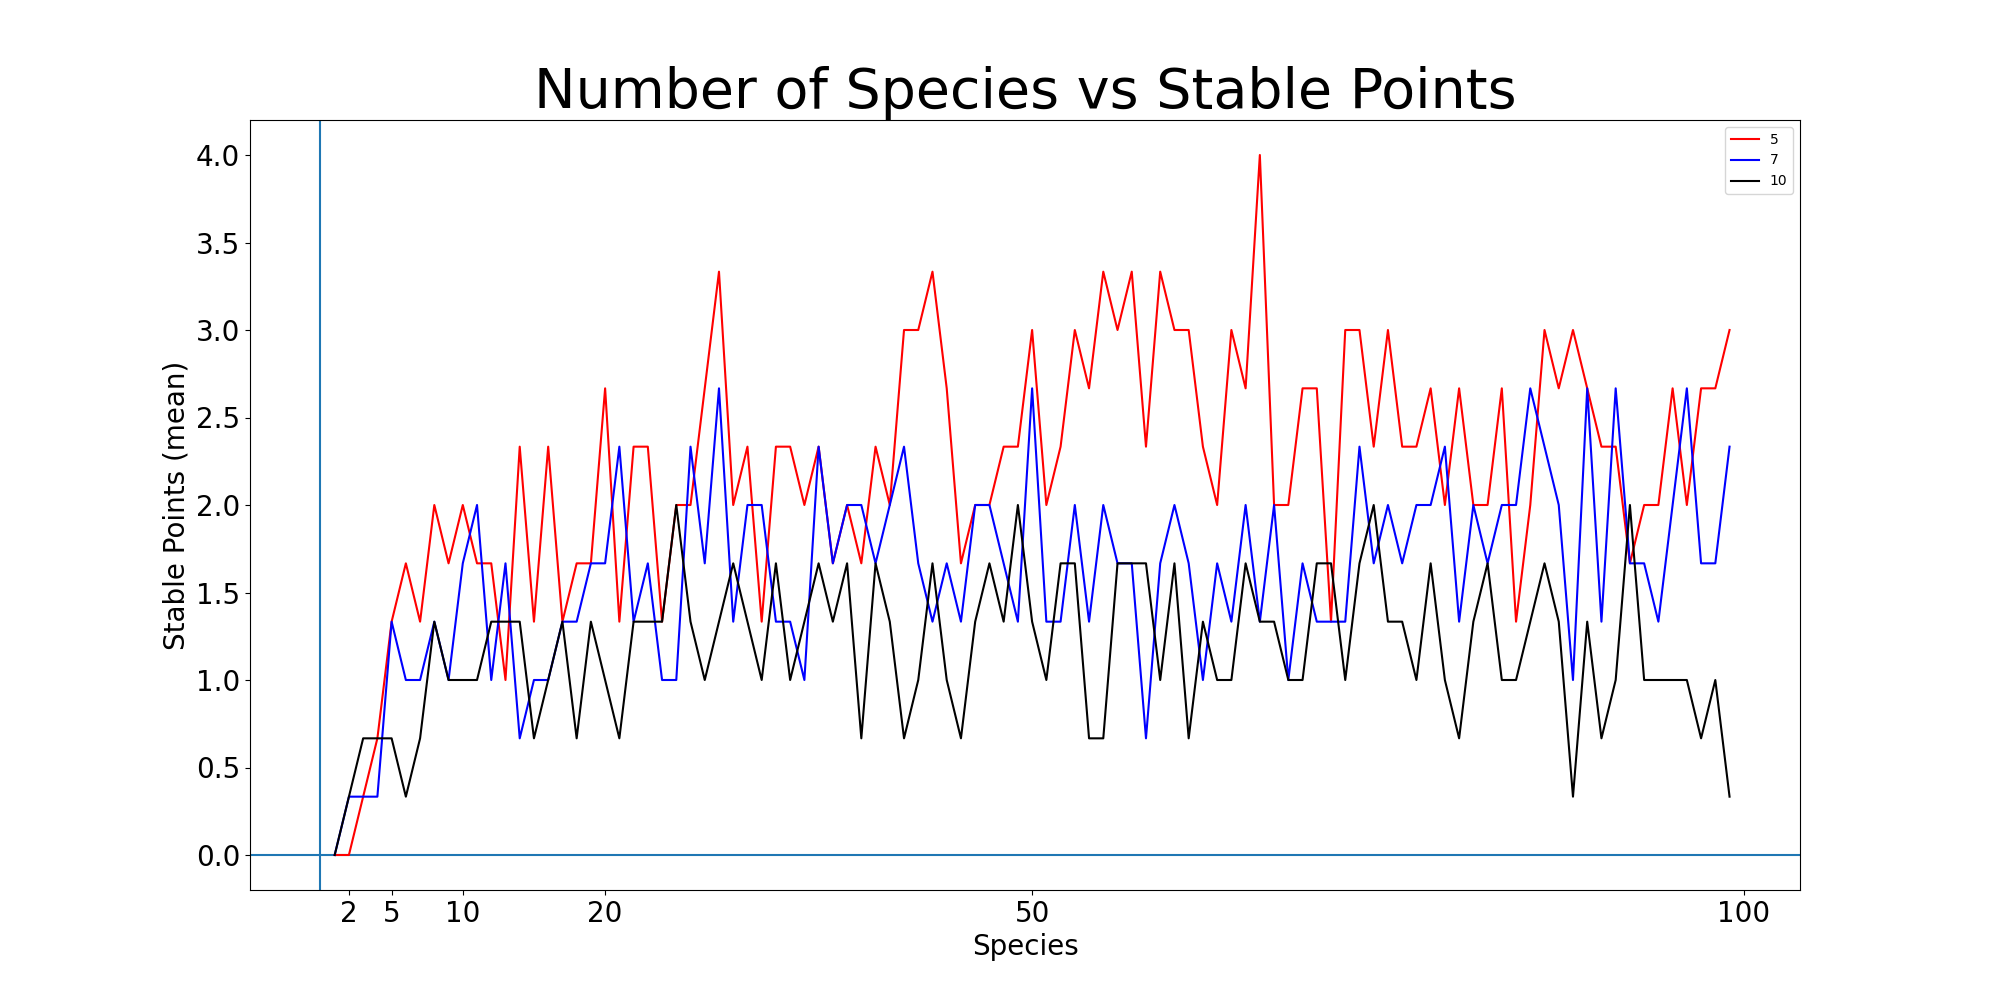
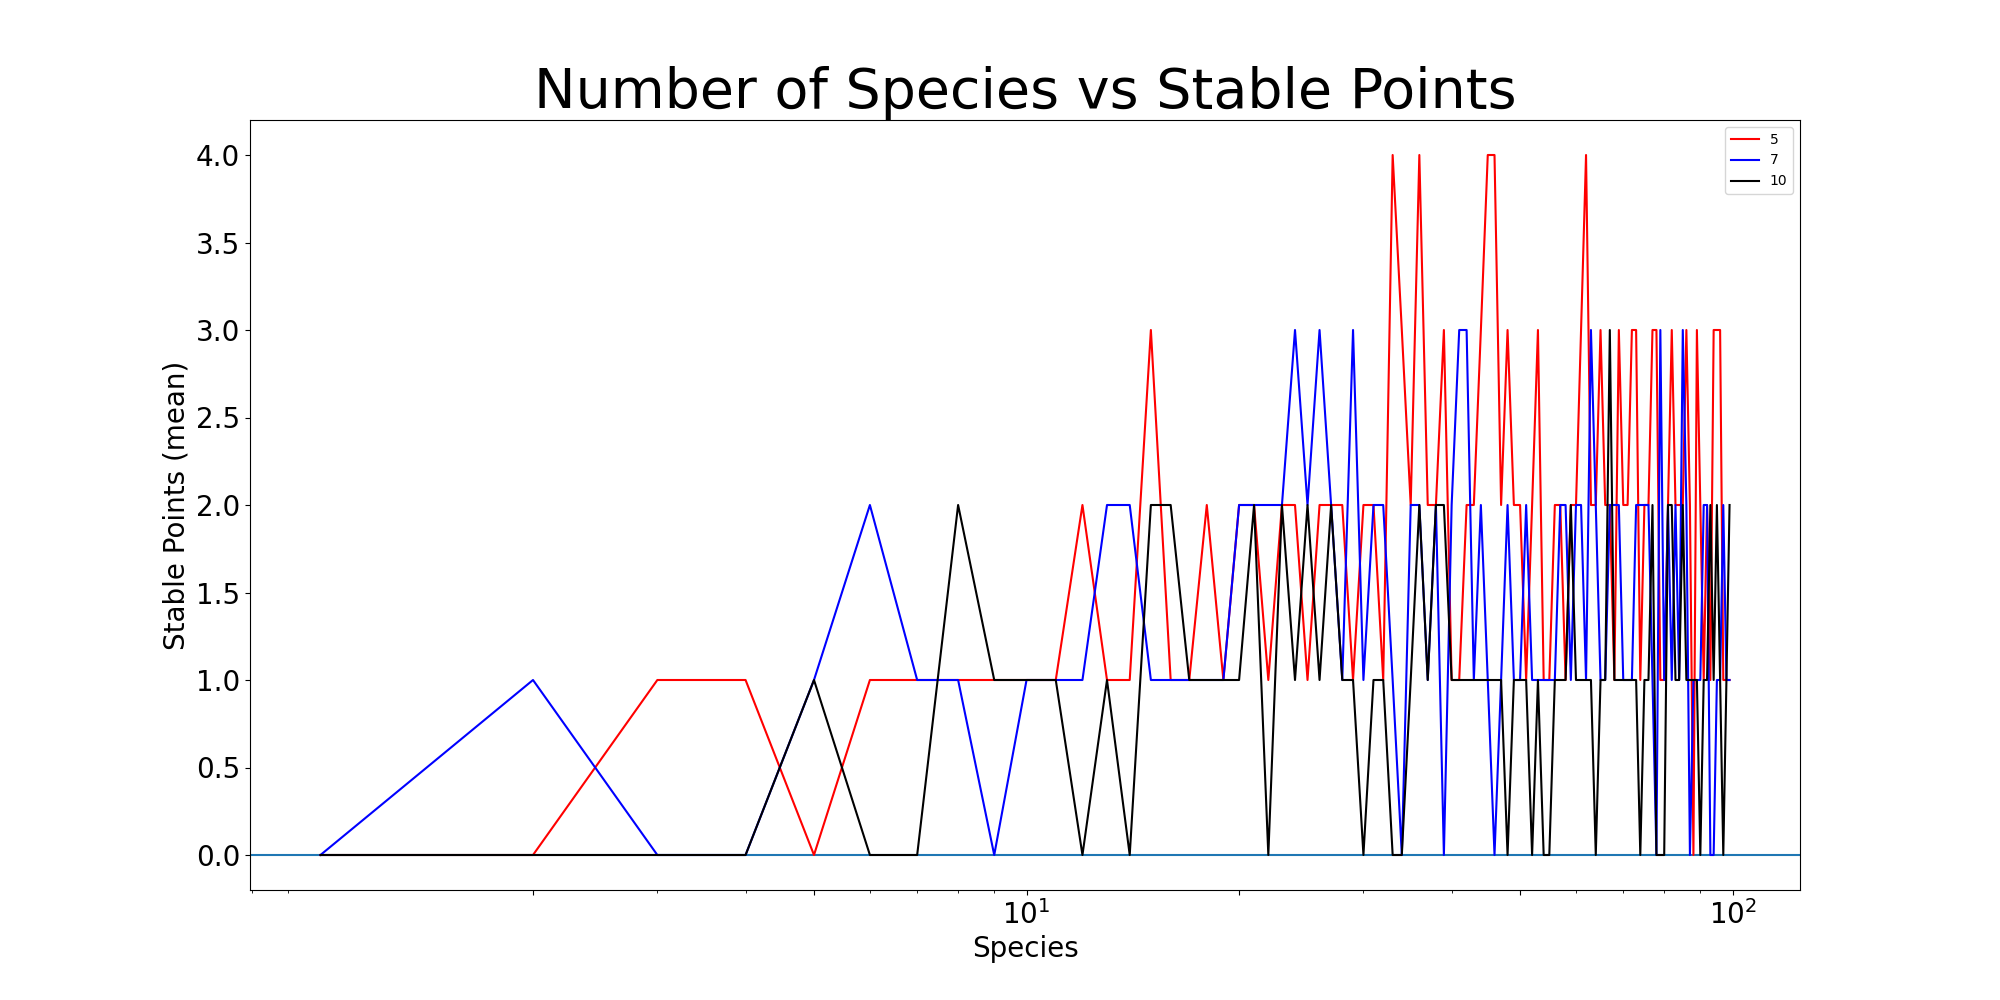
scipy roots - log scale

diff --git a/analytics/scipy_roots_alpha.analytics.py b/analytics/scipy_roots_alpha.analytics.py
@@ -1,5 +1,5 @@
 import shelve, os
-import matplotlib.pyplot as plt
+from matplotlib import pyplot as plt
 import sys
 import numpy as np
 print(sys.version)
@@ -56,6 +56,7 @@ def plot_stable_biotic():
     plt.yticks(fontsize=20)
     plt.axvline(x=0)
     plt.axhline(y=0)
+    plt.xscale("log")
     plt.xticks([2, 5, 10, 20, 50, 100, 200])
 
     # This Set Does Total Abundance Sum, Mean and Standard Deviation (Error Bar Plot)
@@ -125,6 +126,65 @@ def plot_stable_biotic():
     plt.savefig('stable_biotic_x.png')
     plt.show()
 
-plot_stable_biotic()
+#plot_stable_biotic()
 
 
+
+def plot_stable_biotic_log():
+
+
+    fig1, ax1 = plt.subplots()
+
+    x = np.array([])
+    y = np.array([])
+    e = np.array([])
+
+    biotic_elements_x   = []
+    stable_points_y     = []
+
+    stable_points_data = []
+
+    k_x = []
+    s_y = []
+    plot_k_x = []
+    plot_s_y = []
+
+    for each_N in uniq_n:
+        for each_K in uniq_k:
+            for each_data_point in data_points:
+                # (K, N, stable_point)
+                if(each_K == each_data_point[0] and each_N == each_data_point[1]):
+                    stable_points_data.append(each_data_point[2])
+            k_x.append(each_K)
+            s_y.append(statistics.mean(stable_points_data))
+            stable_points_data.clear()
+
+        plot_k_x.append(k_x.copy())
+        plot_s_y.append(s_y.copy())
+        k_x.clear()
+        s_y.clear()
+        index_num = 0
+    marker = ""
+    for each_N in uniq_n:
+        if(each_N == 5):
+            marker = "b-"
+        elif(each_N == 7):
+            marker = "r-"
+        elif(each_N == 10):
+            marker = "k-"
+        ax1.plot(plot_k_x[index_num], plot_s_y[index_num], marker, label = str("Niche = ") + str(each_N))
+        index_num +=1
+
+    ax1.set_title("Number of Species vs Stable Points")
+    ax1.set_xlabel("Species")
+    ax1.set_ylabel("Stable Points (mean)")
+    ax1.set_xscale('log')
+    ax1.set_xticks([1, 2, 5, 10, 20, 50, 100, 200])
+    ax1.set_xticklabels(["1", "2", "5", "10", "20", "50", "100", "200"])
+    #ax1.set_yticks([0.0, 0.1, 0.2, 0.3, 0.4, 0.5, 0.6, 0.7, 0.8, 0.9, 1.0, 1.1,1.2,1.3,1.4,1.5,1.6,1.7,1.8,1.9,2.0,2.1,2.2,2.3,2.4,2.5])
+    #ax1.set_yticklabels(["0.5","1.0", "1.5", "2.0", "2.5"])
+    ax1.legend()
+    plt.savefig('stable_biotic_x_log.png')
+    plt.show()
+
+plot_stable_biotic_log()

diff --git a/experiments/scipy_roots_alpha.py b/experiments/scipy_roots_alpha.py
@@ -167,7 +167,7 @@ def stable_point_return():
         idx+=1
 
     print(K)
-    if(K > 80):
+    if(K > 120):
         plt.figure(figsize=(25,15))
         plt.title('Combined Biotic over Time', fontsize=40)
         plt.xlabel('Temperature', fontsize=40)
